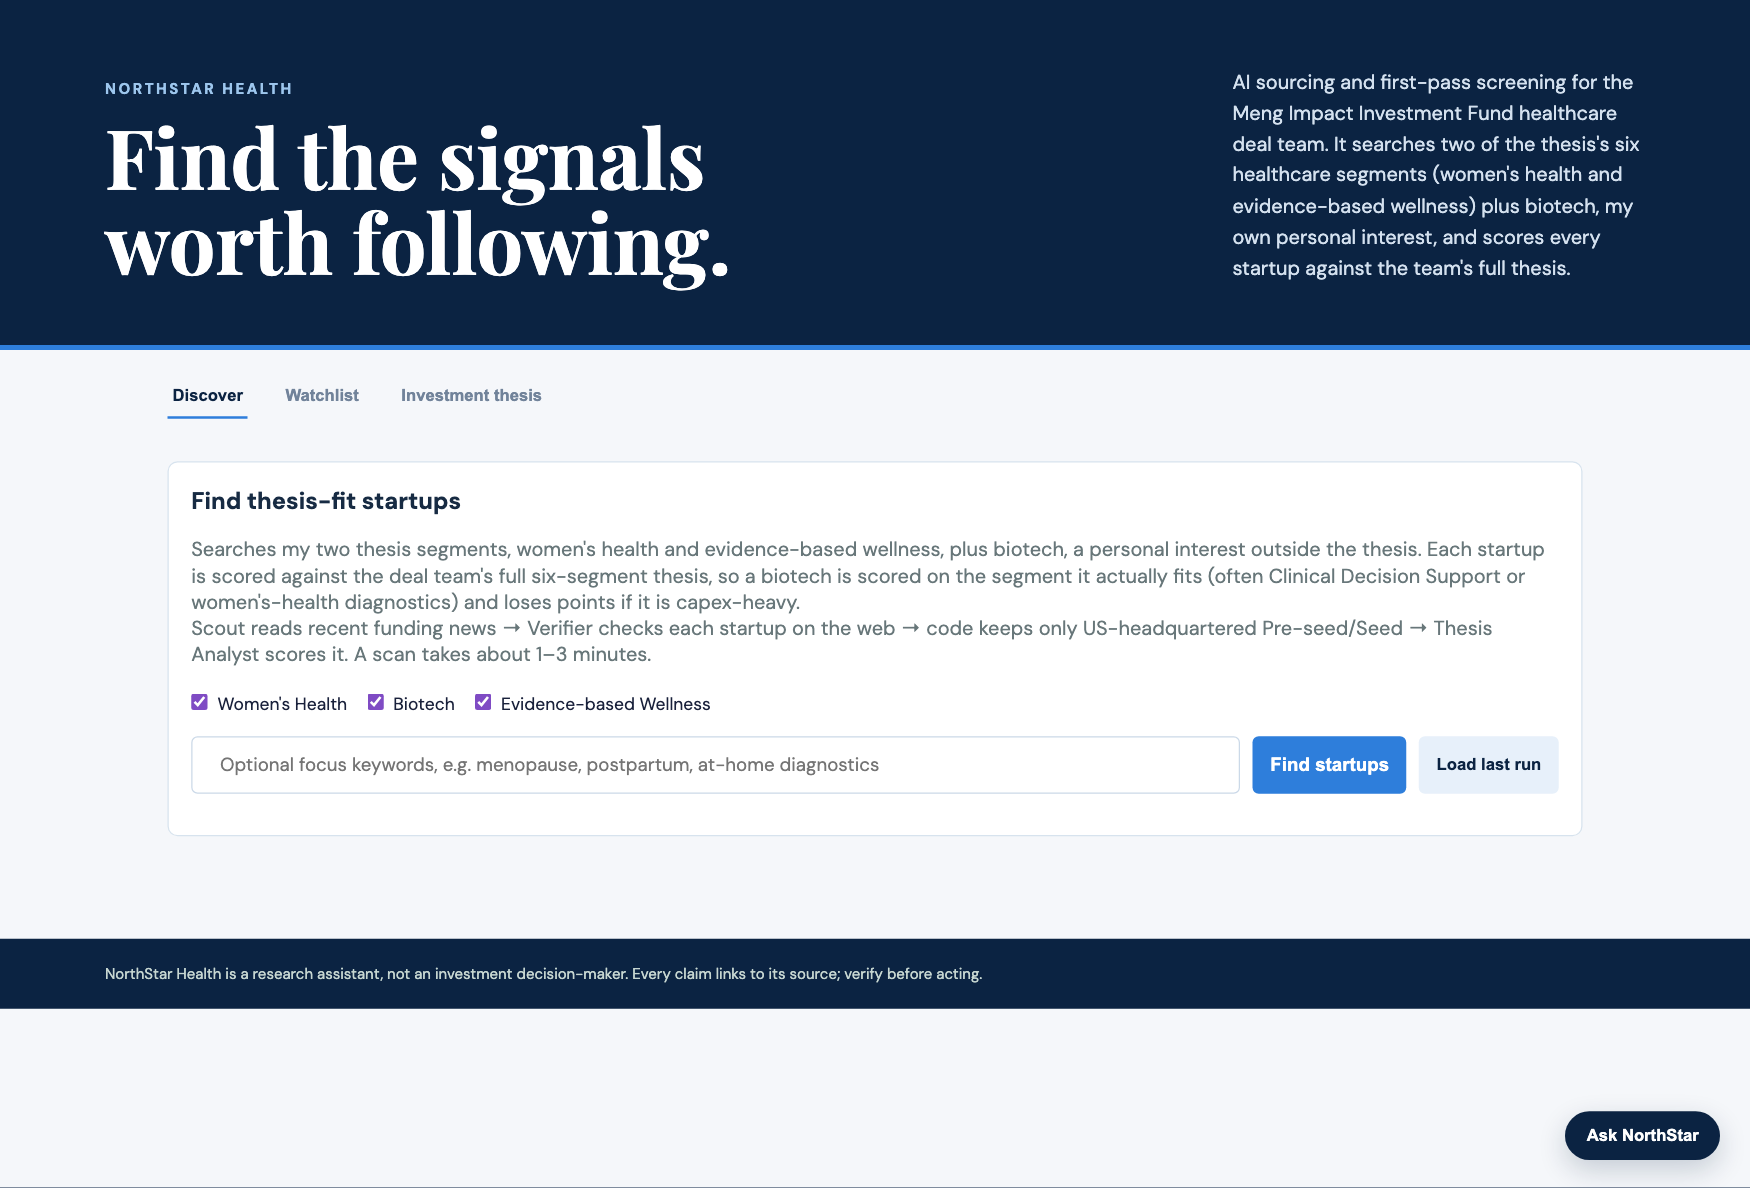
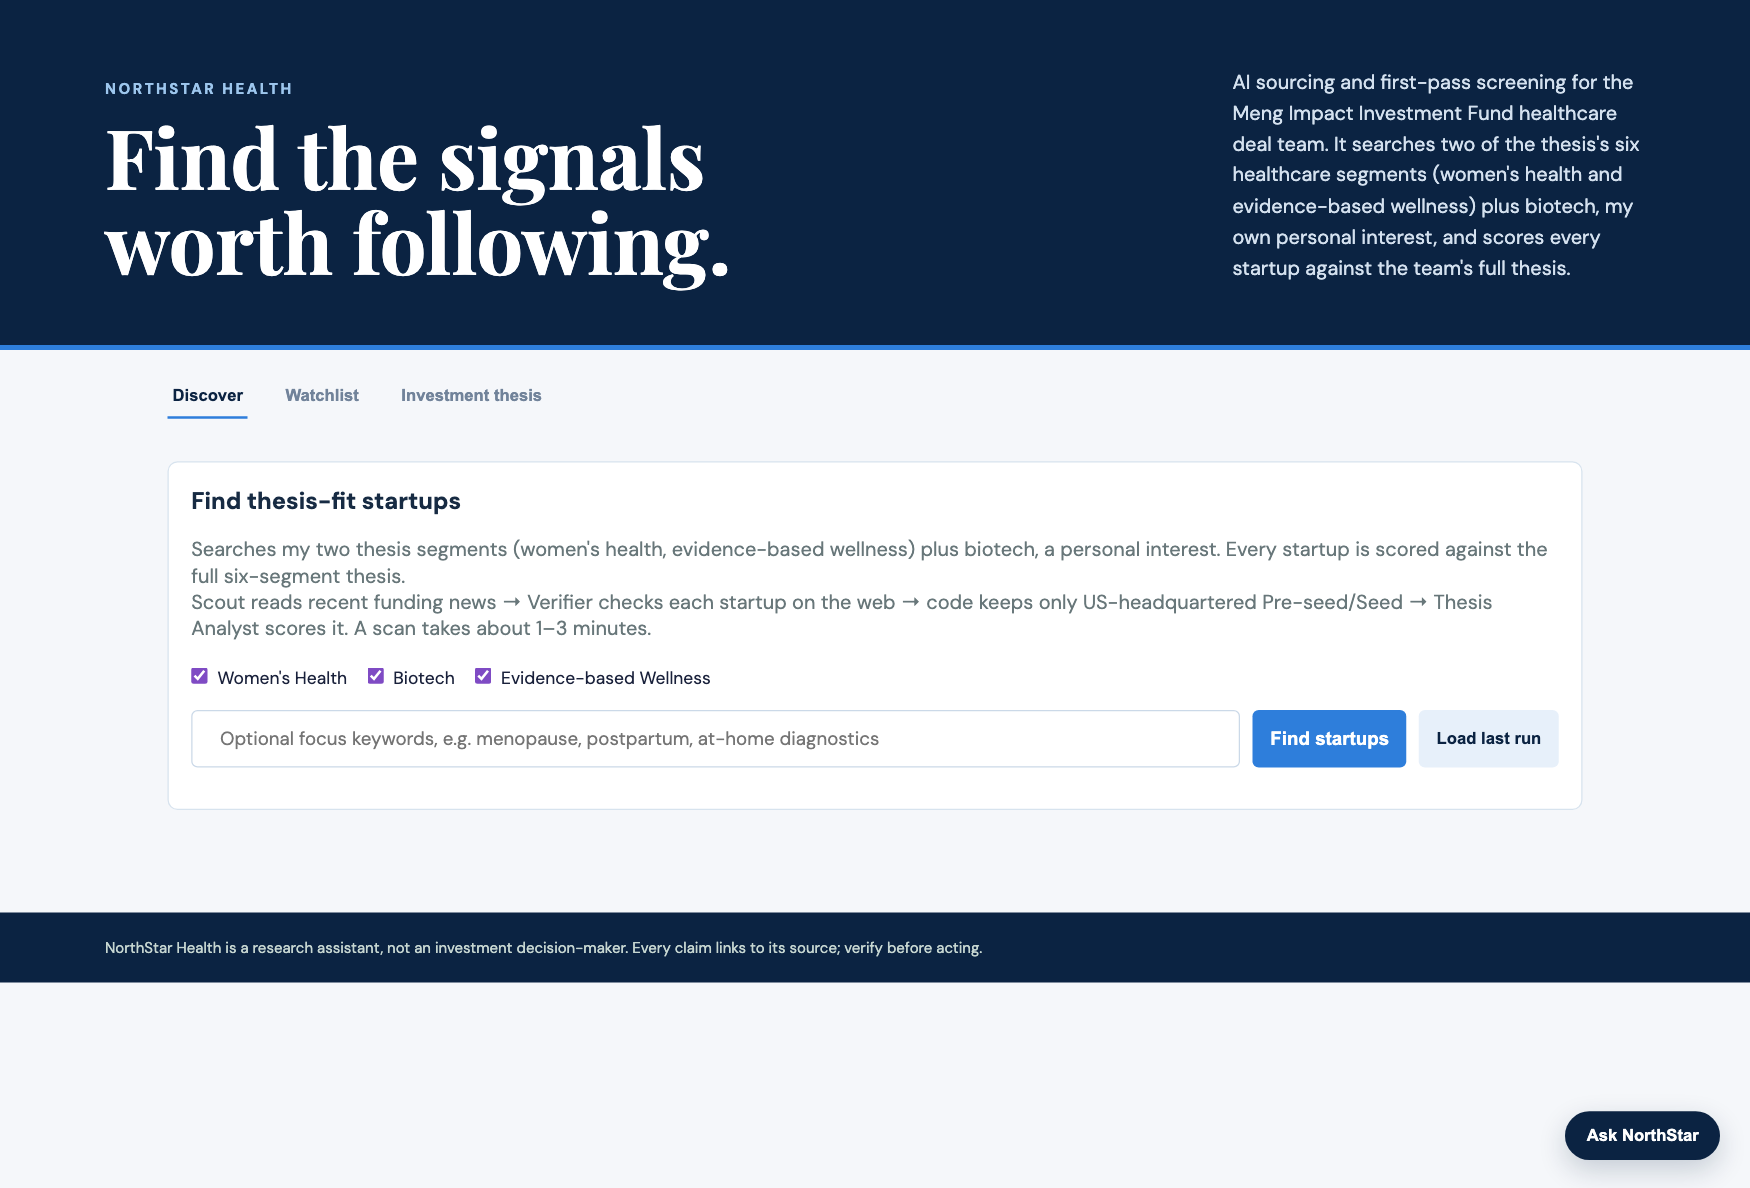
Fix duplicate navy footer band; shorter sector copy

diff --git a/assets/style.css b/assets/style.css
@@ -16,7 +16,7 @@
 .email-draft { background:#f1f6fc; border-left:3px solid var(--blue); padding:12px; margin:10px 0; font-size:13px; line-height:1.5; white-space:pre-wrap; }
 .field-label { display:block; color:#71839a; font-size:11px; font-weight:700; letter-spacing:.5px; margin:15px 0 5px; } .status-dropdown .Select-control { border-color:#cbd9e8; } .subheading { font-size:16px; margin-top:20px; } .question-list { padding-left:20px; color:#40556c; font-size:13px; line-height:1.5; } .notes-box { display:block; width:100%; min-height:66px; border:1px solid #cbd9e8; border-radius:5px; padding:10px; font:inherit; resize:vertical; background:#fbfdff; }
 .text-input { width:100%; border:1px solid #cbd9e8; border-radius:5px; padding:9px; font:inherit; } .deck-upload { border:1px dashed #9db9d5; border-radius:5px; color:#46739f; padding:10px; margin-top:14px; text-align:center; font-size:12px; cursor:pointer; background:#f7fbff; } .deck-status { color:#8191a3; font-size:11px; margin-top:5px; } .compare-check { margin:12px 0; color:#2e7edb; font-size:12px; font-weight:700; } .compare-panel { margin-top:20px; } .compare-card { background:white; border:1px solid var(--line); border-radius:8px; padding:20px; overflow:auto; } .compare-table { border-collapse:collapse; width:100%; font-size:13px; } .compare-table th,.compare-table td { border-bottom:1px solid #e5edf5; padding:10px; text-align:left; vertical-align:top; } .compare-table th { color:var(--navy); white-space:nowrap; } .compare-table td { min-width:150px; color:#40556c; }
-.ask-launcher { position:fixed; z-index:20; right:24px; bottom:22px; border:0; border-radius:22px; background:var(--navy); color:white; padding:12px 17px; font-weight:700; cursor:pointer; box-shadow:0 8px 22px #0b234233; } .ask-launcher:hover { background:var(--navy-light); } .ask-dock { position:fixed; z-index:20; right:24px; bottom:22px; width:min(390px,calc(100vw - 48px)); background:white; border:1px solid #cbd9e8; border-top:4px solid var(--blue); border-radius:8px; padding:15px; box-shadow:0 14px 35px #0b234233; } .dock-topline { display:flex; justify-content:space-between; align-items:start; gap:12px; } .dock-heading { display:flex; justify-content:space-between; align-items:baseline; gap:12px; margin-bottom:10px; } .dock-label { color:var(--navy); letter-spacing:1.2px; font-size:11px; font-weight:700; } .dock-helper { color:#7b8b9d; font-size:11px; } .ask-close { border:0; background:transparent; color:#71839a; font-size:22px; line-height:1; cursor:pointer; padding:0 2px; } .question-box { display:block; width:100%; min-height:64px; max-height:120px; border:1px solid #cbd9e8; border-radius:5px; padding:11px; font:inherit; resize:vertical; background:#fbfdff; } .ask-dock .primary-button { margin-top:9px; } .ask-dock .thinking { min-height:0; padding-top:7px; } .ask-dock .answer { margin-top:10px; max-height:240px; overflow:auto; background:#f5f8fc; border-radius:5px; padding:13px; line-height:1.5; font-size:13px; border:1px solid #dce6f0; } footer { background:var(--navy); color:#c6d6d1; padding:20px 6vw; font-size:12px; }
+.ask-launcher { position:fixed; z-index:20; right:24px; bottom:22px; border:0; border-radius:22px; background:var(--navy); color:white; padding:12px 17px; font-weight:700; cursor:pointer; box-shadow:0 8px 22px #0b234233; } .ask-launcher:hover { background:var(--navy-light); } .ask-dock { position:fixed; z-index:20; right:24px; bottom:22px; width:min(390px,calc(100vw - 48px)); background:white; border:1px solid #cbd9e8; border-top:4px solid var(--blue); border-radius:8px; padding:15px; box-shadow:0 14px 35px #0b234233; } .dock-topline { display:flex; justify-content:space-between; align-items:start; gap:12px; } .dock-heading { display:flex; justify-content:space-between; align-items:baseline; gap:12px; margin-bottom:10px; } .dock-label { color:var(--navy); letter-spacing:1.2px; font-size:11px; font-weight:700; } .dock-helper { color:#7b8b9d; font-size:11px; } .ask-close { border:0; background:transparent; color:#71839a; font-size:22px; line-height:1; cursor:pointer; padding:0 2px; } .question-box { display:block; width:100%; min-height:64px; max-height:120px; border:1px solid #cbd9e8; border-radius:5px; padding:11px; font:inherit; resize:vertical; background:#fbfdff; } .ask-dock .primary-button { margin-top:9px; } .ask-dock .thinking { min-height:0; padding-top:7px; } .ask-dock .answer { margin-top:10px; max-height:240px; overflow:auto; background:#f5f8fc; border-radius:5px; padding:13px; line-height:1.5; font-size:13px; border:1px solid #dce6f0; } .page > footer { background:var(--navy); color:#c6d6d1; padding:20px 6vw; font-size:12px; }
 @media(max-width:700px){ .hero { display:block; } .hero-tagline { margin-top:24px; } .ask-launcher,.ask-dock { right:12px; bottom:12px; } .ask-dock { width:calc(100vw - 24px); } }
 @media(max-width:700px){ .filter-row { grid-template-columns:1fr; } .freshness-date { float:none; display:block; margin-top:3px; } }
 @media(max-width:700px){ .live-search-controls { display:block; } .live-search-controls .primary-button { margin-top:8px; } .live-query { width:100%; } }

diff --git a/app.py b/app.py
@@ -170,7 +170,7 @@ def thesis_view():
         html.H3("Six thesis segments", className="subheading"),
         html.Div([html.Div([html.Div([html.Strong(n), html.Span("MY FOCUS", className="focus-tag") if mine else None], className="seg-top"), html.P(d)],
                            className="seg-card mine" if mine else "seg-card") for n, d, mine in SEGMENTS], className="seg-grid"),
-        html.P("My thesis segments are Women's Health and Wellness. I also search biotech as a personal interest, but biotech is not a thesis segment: the thesis prefers capex-light Health Tech and Services, so biotechs are scored on the segment they fit (often Clinical Decision Support or Women's Health diagnostics) and lose points on capex.", className="muted small-note"),
+        html.P("My thesis segments: Women's Health and Wellness. I also search biotech as a personal interest outside the six segments.", className="muted small-note"),
         html.H3("How NorthStar scores (0–100)", className="subheading"),
         html.Table([html.Tr([html.Th("Criterion"), html.Th("Weight")])] + [html.Tr([html.Td(CRITERIA_LABELS[k]), html.Td(f"{w}%")]) for k, w in agents.WEIGHTS.items()], className="usage-table weight-table"),
         html.P("The Thesis Analyst scores each criterion 1–5 with a cited rationale; code computes the weighted 0–100 score. 65+ = Prioritize outreach, 45–64 = Watch, below 45 = Pass.", className="muted small-note"),
@@ -196,7 +196,7 @@ app.layout = html.Div([
     html.Main([html.Section([
         html.Div([
             html.Div([html.H3("Find thesis-fit startups"),
-                      html.P(["Searches my two thesis segments, women's health and evidence-based wellness, plus biotech, a personal interest outside the thesis. Each startup is scored against the deal team's full six-segment thesis, so a biotech is scored on the segment it actually fits (often Clinical Decision Support or women's-health diagnostics) and loses points if it is capex-heavy. ",
+                      html.P(["Searches my two thesis segments (women's health, evidence-based wellness) plus biotech, a personal interest. Every startup is scored against the full six-segment thesis. ",
                              html.Br(), "Scout reads recent funding news → Verifier checks each startup on the web → code keeps only US-headquartered Pre-seed/Seed → Thesis Analyst scores it. A scan takes about 1–3 minutes."], className="muted")], className="live-search-copy"),
             dcc.Checklist(id="lanes", options=lane_opts, value=list(LANES), inline=True, className="lane-check"),
             html.Div([dcc.Input(id="keywords", placeholder="Optional focus keywords, e.g. menopause, postpartum, at-home diagnostics", className="live-query", maxLength=120),
